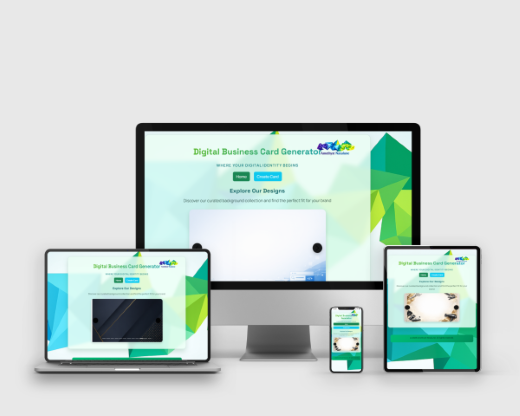
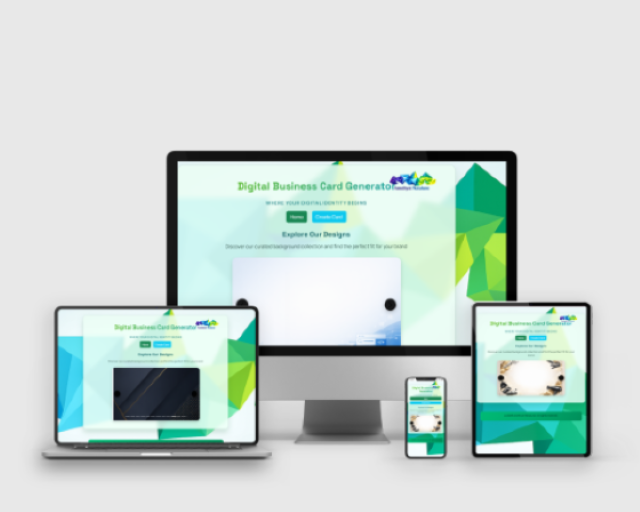
Update responsive design mockup image and remove outdated file

Changed region(s): [[0.0615, 0.3125, 0.9231, 0.9062], [0.4308, 0.4062, 0.5538, 0.4688], [0.2154, 0.6562, 0.2769, 0.7188]]

diff --git a/README.md b/README.md
@@ -2,7 +2,7 @@
 
 Responsive Design Mockup Image
 
-![Responsive Design](assets/images/responsive-business-card1.png)
+![Responsive Design](assets/images/responsive-business-card.png)
 
 **Live site:** [https://anasztazia12.github.io/business-card-generator/](https://anasztazia12.github.io/business-card-generator/)
 